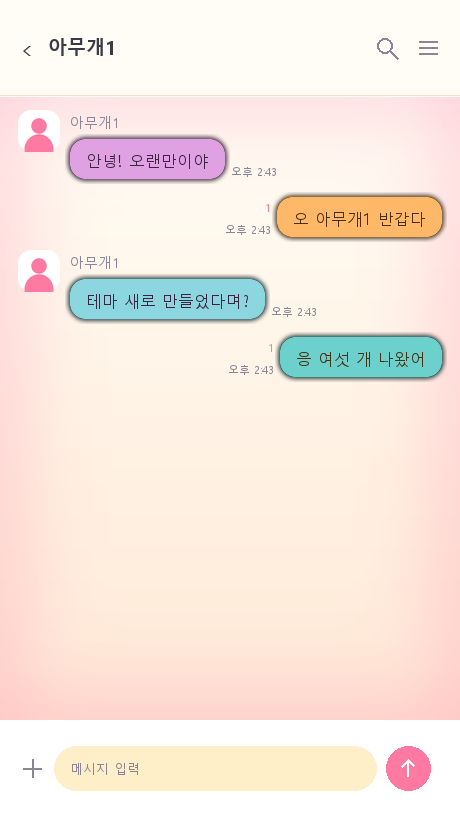
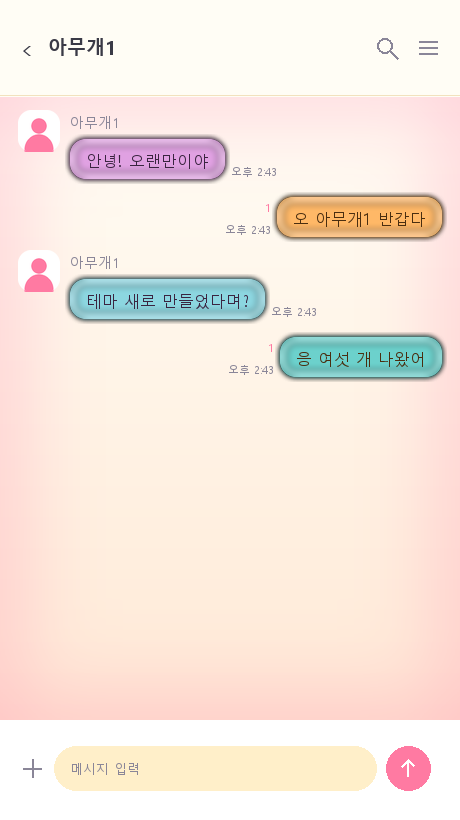
글로우를 몸통 안쪽 테두리로도 넣는다
바깥 halo 만으로는 차이가 안 보였다. 여백을 6pt 로 줄이면서 halo 두께도 같이
줄었기 때문이다. 알파는 충분했지만 6pt 는 화면에서 너무 얇다.

여백을 다시 키우면 말풍선 사이가 벌어진다. 그래서 자리를 차지하지 않는 쪽으로 갔다 —
몸통 안쪽 테두리를 말풍선 색의 밝은 쪽으로 칠한다. 프레임 크기가 그대로라
간격에 영향이 없고, 빛나 보이는 정도는 바깥 halo 보다 오히려 크다.

유리 테마에도 같이 들어간다. 위쪽 하이라이트와 겹치지 않고 유리 모서리가
빛을 머금은 것처럼 보인다.

diff --git a/tools/gen.py b/tools/gen.py
@@ -44,6 +44,12 @@ def argb(h, alpha=1.0):
     return '#%02X%s' % (round(max(0.0, min(1.0, alpha)) * 255), h.lstrip('#').upper())
 
 
+def lighten(h, f):
+    """색을 흰쪽으로 f 만큼 당긴다. 0 이면 그대로, 1 이면 흰색."""
+    c = rgb(h)
+    return '#%02X%02X%02X' % tuple(round(v + (255 - v) * f) for v in c)
+
+
 def mid(a, b):
     ca, cb = rgb(a), rgb(b)
     return '#%02X%02X%02X' % tuple((ca[i] + cb[i]) // 2 for i in range(3))
@@ -107,6 +113,22 @@ def bubble_box(w, h, colors, radius, style='solid', alpha=255, glow=None, pad=0,
         faded = ImageChops.multiply(rim.getchannel('A'), ramp)
         rim.putalpha(ImageChops.multiply(faded, mask))
         out.alpha_composite(rim)
+
+    if glow:
+        # 몸통 안쪽 테두리를 밝힌다. 바깥 halo 는 여백만큼 프레임을 키우지만
+        # 이건 자리를 차지하지 않는다. 여백을 좁게 두고도 빛나 보이게 하는 쪽.
+        gc = glow[0]
+        lit = lighten(mid(colors[0], colors[1]) if gc == 'auto' else gc, 0.55)
+        band = max(2, radius // 3)
+        inner = Image.new('RGBA', (w * SS, h * SS), (0, 0, 0, 0))
+        ImageDraw.Draw(inner).rounded_rectangle(
+            [SS, SS, w * SS - SS - 1, h * SS - SS - 1],
+            radius=radius * SS, outline=rgb(lit) + (255,), width=band * SS)
+        inner = inner.resize((w, h), Image.LANCZOS)
+        inner = inner.filter(ImageFilter.GaussianBlur(radius=band * 0.7))
+        inner.putalpha(ImageChops.multiply(
+            inner.getchannel('A').point(lambda v: int(v * 0.85)), mask))
+        out.alpha_composite(inner)
 
     if not pad:
         return out

diff --git a/tools/themes.py b/tools/themes.py
@@ -37,7 +37,7 @@ chat_bg
   None 이면 단색. ('linear', 위, 아래) 또는 ('aurora', 바탕, [색...]) 이면 이미지를 그린다.
 """
 
-VERSION = '0.9'
+VERSION = '0.10'
 
 THEMES = [
     dict(
